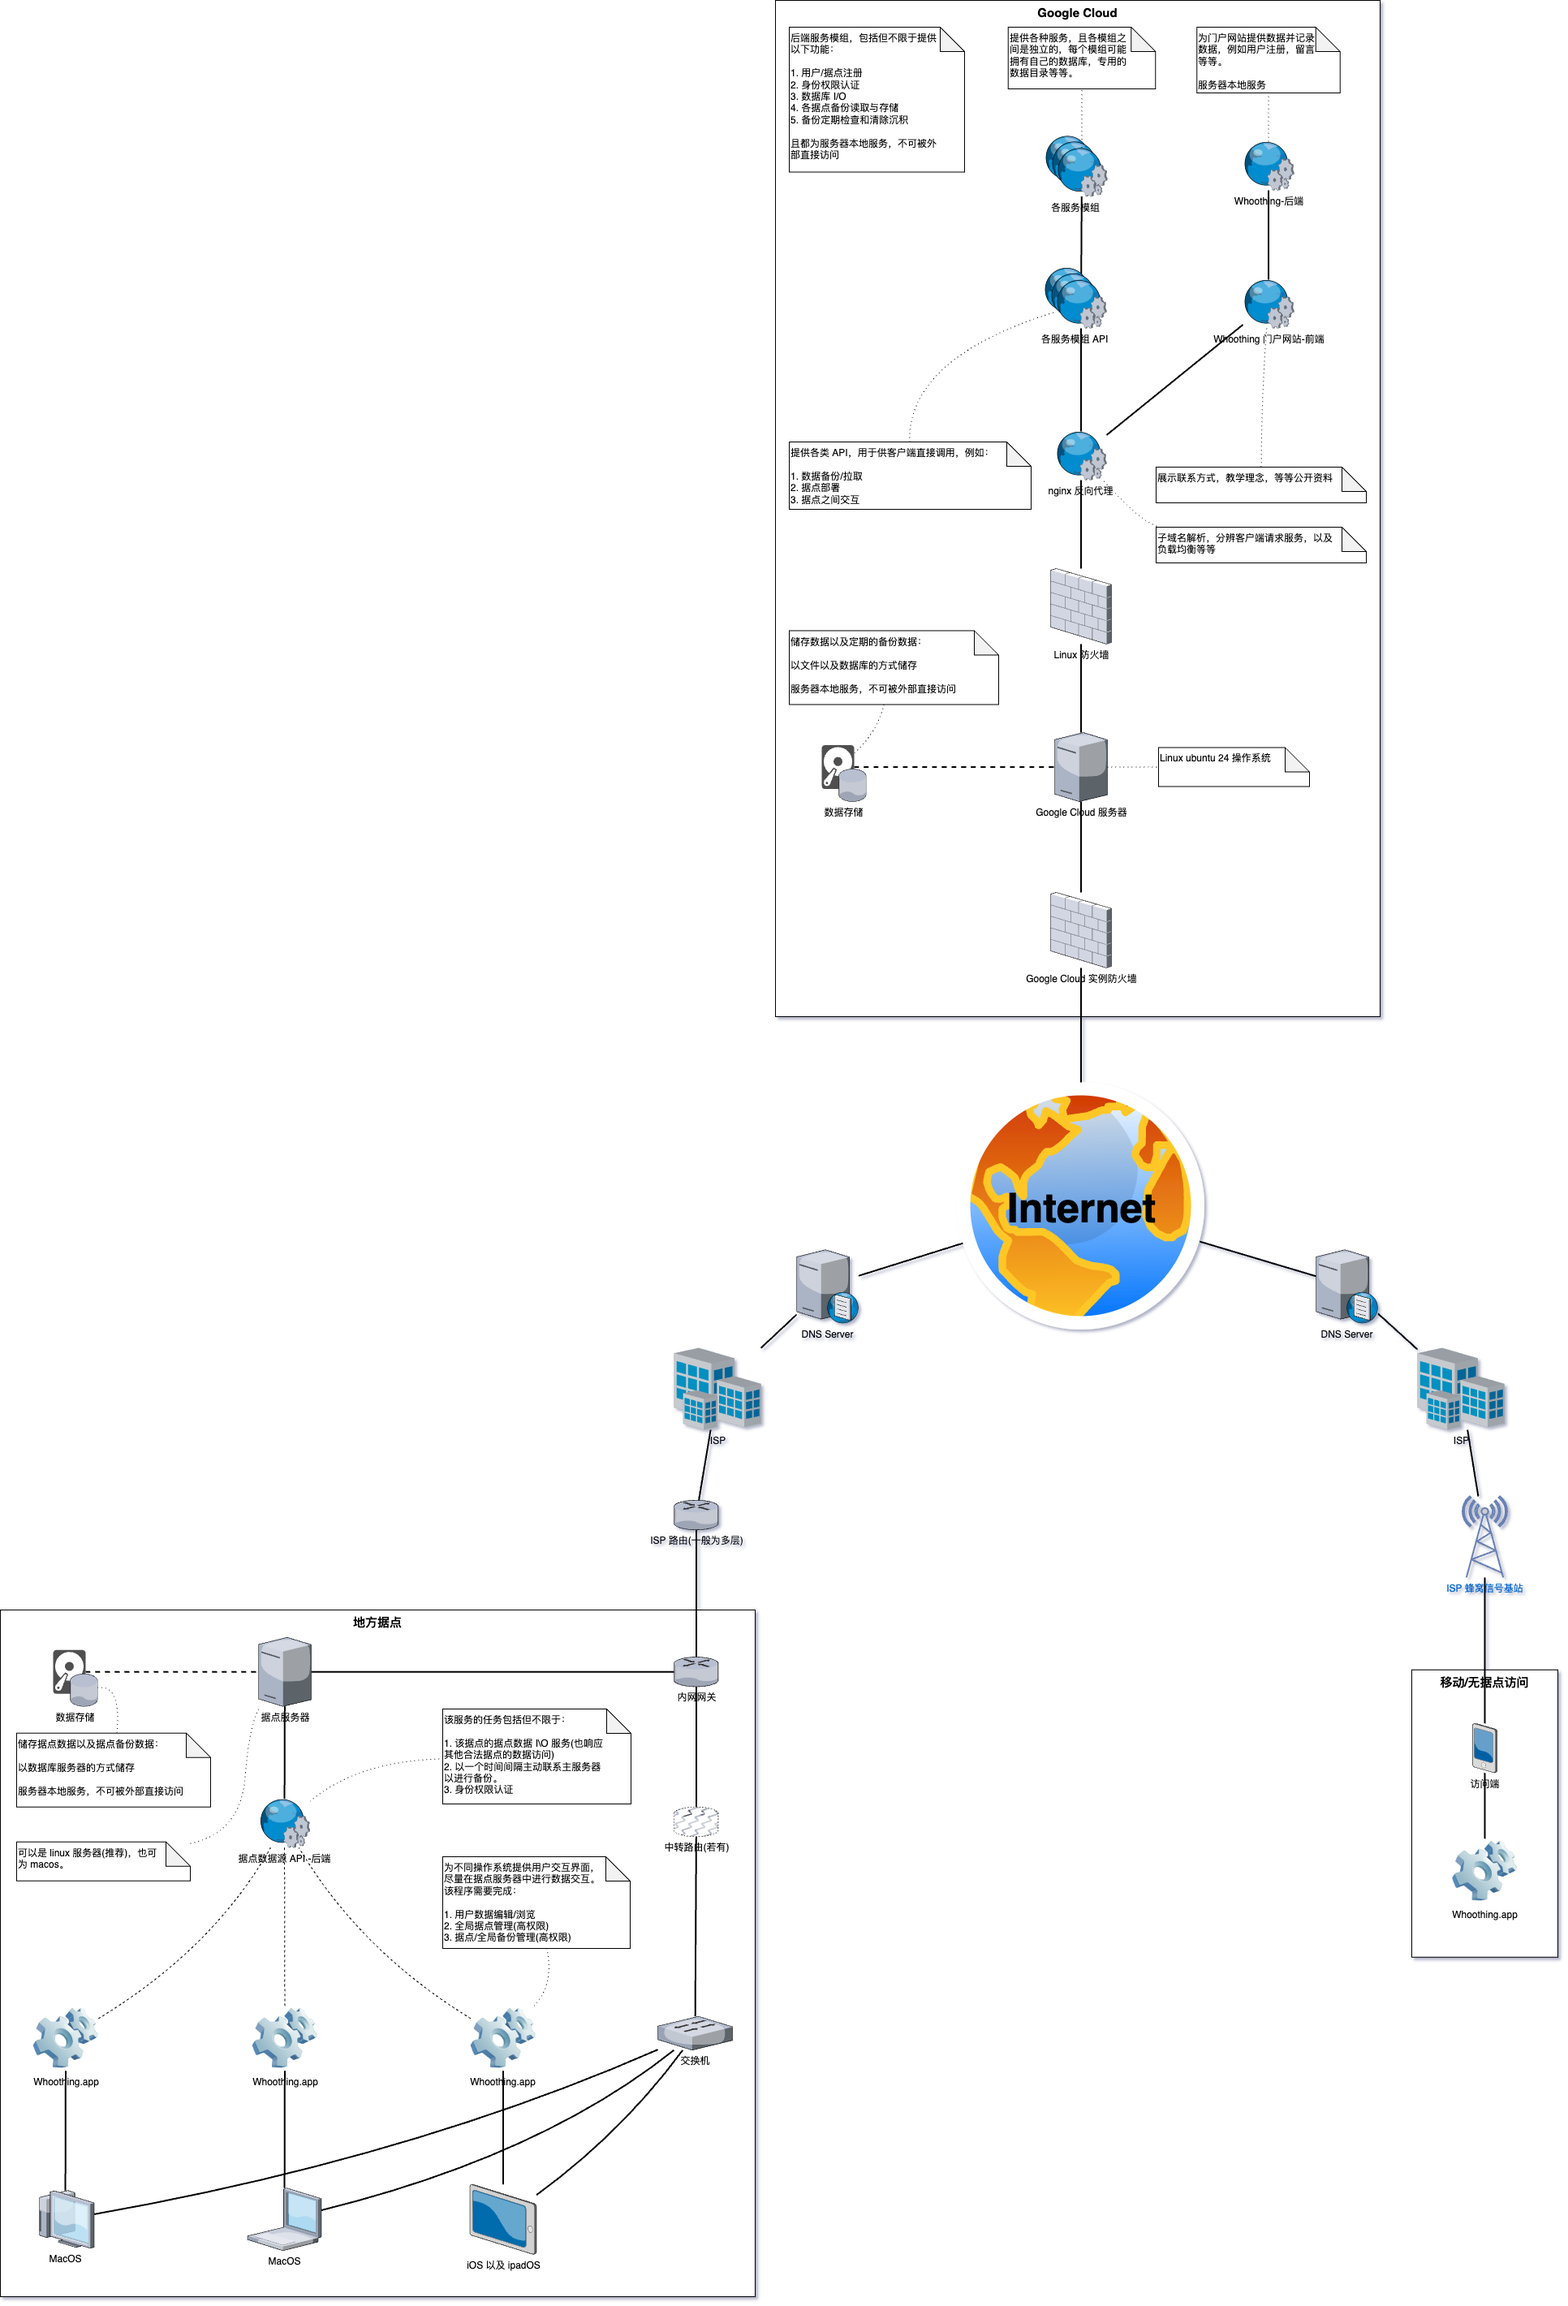
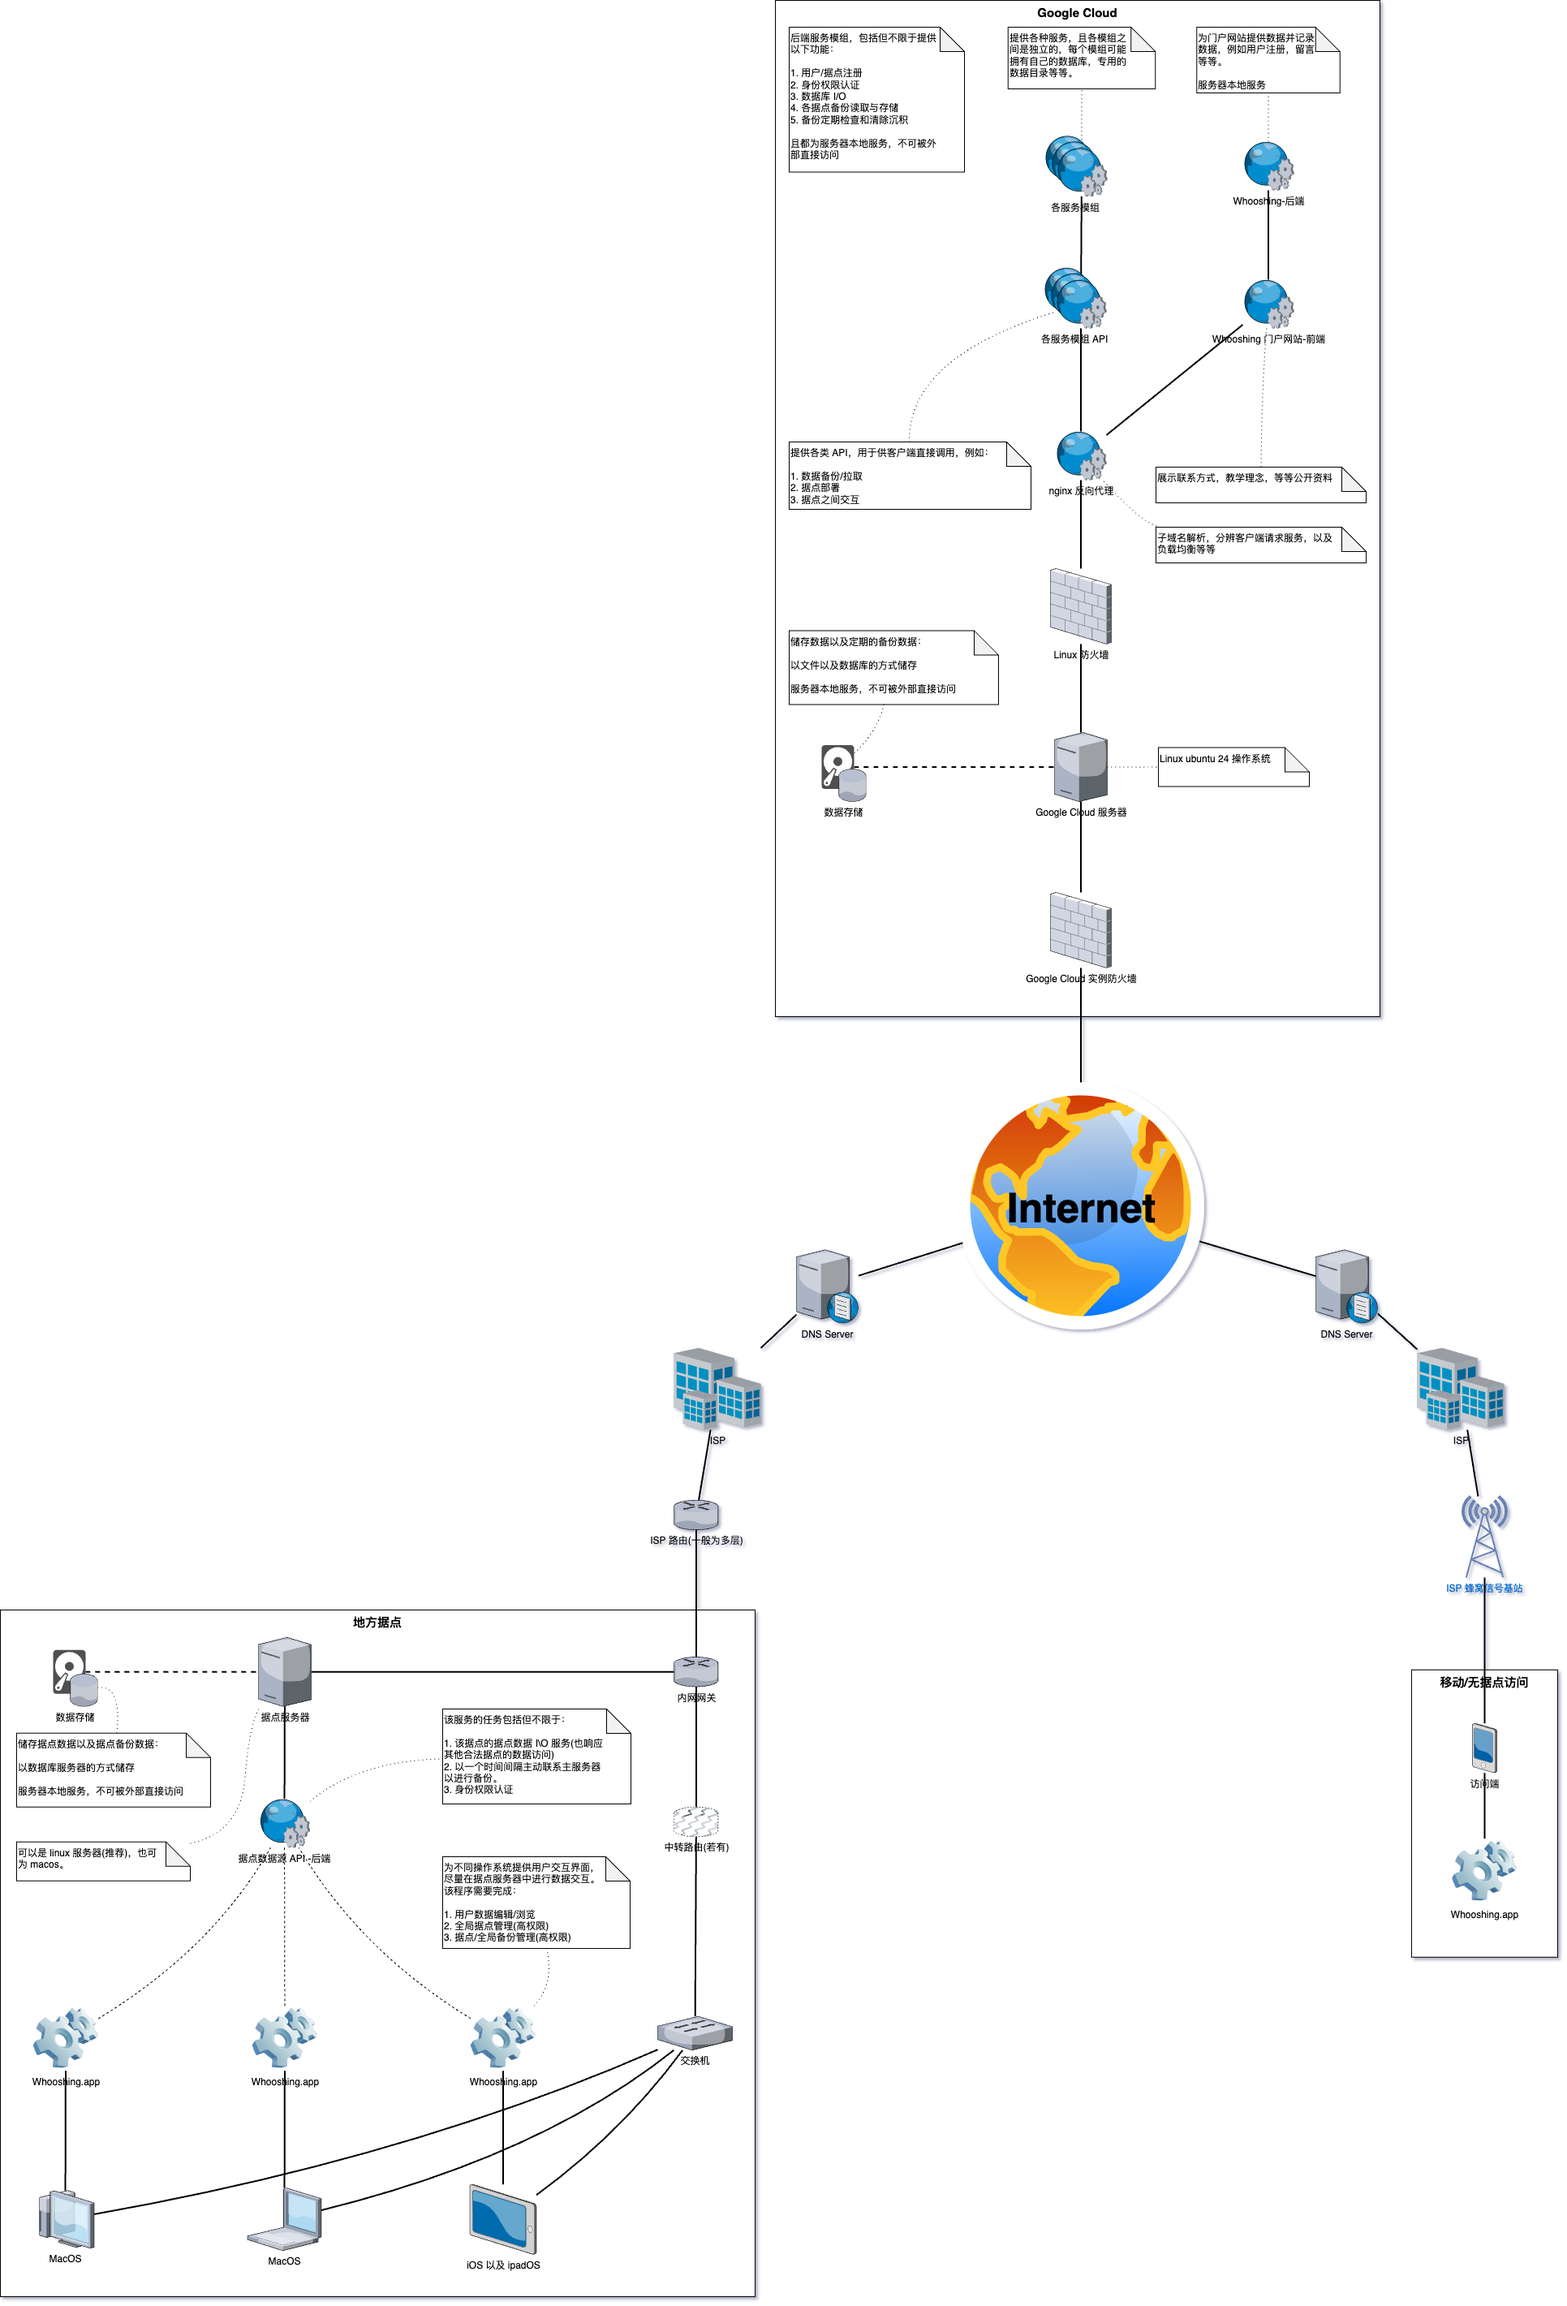
V0.2.1.6 更新 whoothing 为 whooshing

diff --git a/README.md b/README.md
@@ -1,4 +1,4 @@
-# Whoothing 悟性
+# Whooshing 悟性
 
 ## 项目简介
 
@@ -96,7 +96,7 @@
 1. 克隆项目到本地：
    ```bash
    cd <你的项目文件夹>
-   git clone https://github.com/SJJC-Team/Whoothing.git
+   git clone https://github.com/SJJC-Team/Whooshing.git
    cd Whoothing
    ```
 
@@ -130,6 +130,6 @@
 
 ## **联系方式**
 
-* 开发者邮箱：inspiral@inspiral.site
+* 开发者邮箱：contact@official.whooshings.space
 
 * 项目主页：尚无
